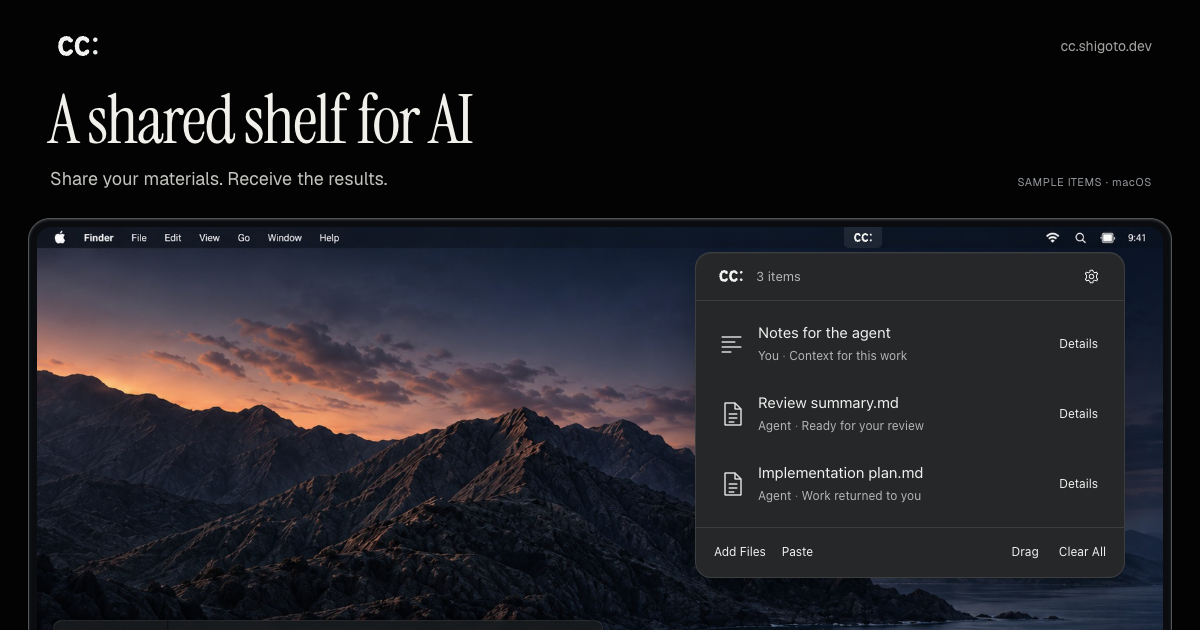
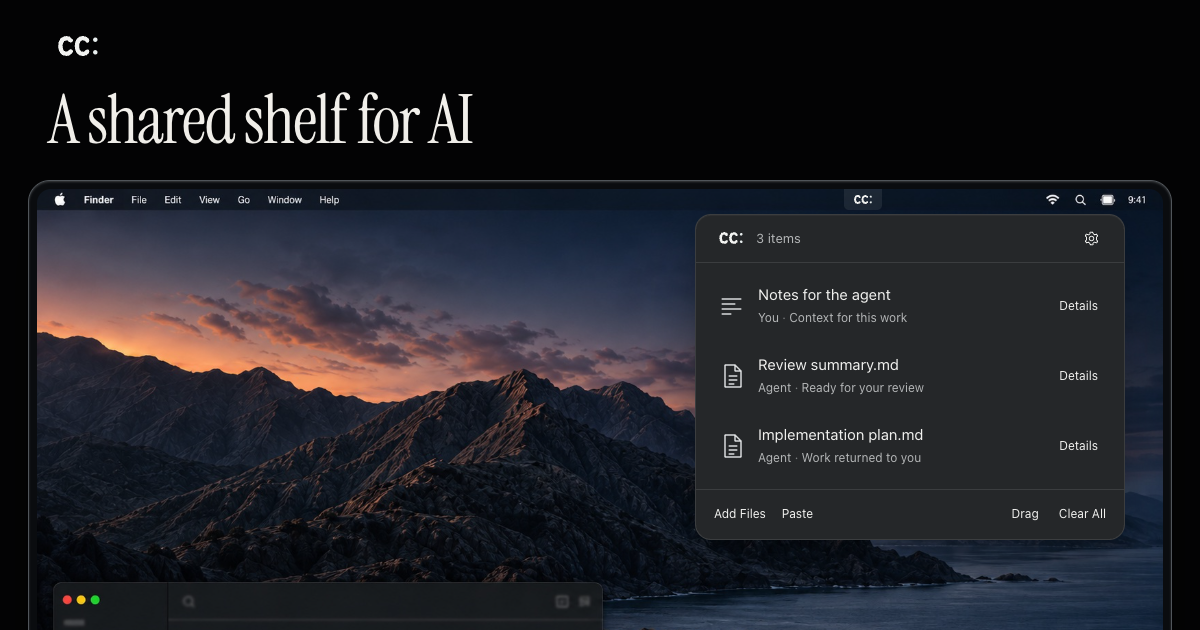
Trim secondary copy from the social preview

diff --git a/site/media/cc-og.html b/site/media/cc-og.html
@@ -14,11 +14,8 @@
   .og-artwork { position: relative; width: 1200px; height: 630px; overflow: hidden; }
   .og-brand { position: absolute; top: 24px; left: 46px; height: 44px; font: 400 42px/1 OGSerif, serif; }
   .og-brand img { width: 64px; height: 44px; object-fit: contain; }
-  .og-domain { position: absolute; top: 37px; right: 48px; margin: 0; color: #a3a29e; font-size: 14px; }
   .og-artwork h1 { position: absolute; top: 84px; left: 48px; margin: 0; font: 400 68px/1.08 OGSerif, serif; letter-spacing: -.025em; }
-  .og-description { position: absolute; top: 165px; left: 50px; margin: 0; font: 400 18px/1.6 OGSans, sans-serif; color: #c7c6c0; }
-  .og-sample { position: absolute; top: 174px; right: 48px; margin: 0; color: #969a9e; font: 400 11px/1.5 OGSans, sans-serif; letter-spacing: .06em; }
-  .og-product { position: absolute; top: 218px; left: 28px; right: 28px; margin: 0; }
+  .og-product { position: absolute; top: 180px; left: 28px; right: 28px; margin: 0; }
 
   .og-product .desktopShelf { width: 430px; right: 38px; }
   .og-product .shelfHeader { height: 48px; }
@@ -29,10 +26,7 @@
 </head>
 <body><main class="og-artwork">
   <div class="og-brand"><img src="../public/cc/cc-mark.svg" alt="cc:"></div>
-  <p class="og-domain">cc.shigoto.dev</p>
   <h1>A shared shelf for AI</h1>
-  <p class="og-description">Share your materials. Receive the results.</p>
-  <p class="og-sample">SAMPLE ITEMS · macOS</p>
   <figure class="og-product"><div class="preview" data-preview-variant="interactive" lang="en"><div class="stage macDesktop" data-desktop-mode="menuBar"><div class="desktopScreen"><img class="desktopBackdrop" src="../public/cc/mac-desktop-scene.jpg" width="1643" height="957" alt="" fetchpriority="high"><span class="desktopMenuMark" aria-hidden="true"><img src="../public/cc/cc-mark.svg" alt="" width="25" height="20" loading="lazy" decoding="async" srcset="../public/cc/cc-mark.svg 25w" data-nimg="1"></span><div class="desktopShelf"><div class="shelf" data-shelf-mode="menuBar" data-shelf-state="items" lang="en"><div class="shelfHeader"><img src="../public/cc/cc-mark.svg" alt="cc:" width="30" height="26" loading="lazy" decoding="async" srcset="../public/cc/cc-mark.svg 30w" class="mark" data-nimg="1"><span class="itemCount" aria-live="polite">3 items</span><span class="windowControl windowSettings" aria-hidden="true"><svg viewBox="0 0 24 24" fill="none"><path d="M10 2h4l1 3 2 1 3-1 2 3-2 2v4l2 2-2 3-3-1-2 1-1 3h-4l-1-3-2-1-3 1-2-3 2-2v-4L2 8l2-3 3 1 2-1 1-3Z"></path><circle cx="12" cy="12" r="3.5"></circle></svg></span></div><ul class="itemList" role="list"><li class="itemRow"><svg class="itemIcon" viewBox="0 0 28 28" fill="none" aria-hidden="true"><path d="M4 7h19M4 12h13M4 17h19M4 22h9"></path></svg><div class="itemCopy"><p class="itemTitle">Notes for the agent</p><p class="itemDetail"><span>You</span><span class="detailSeparator"> · </span>Context for this work</p></div><span class="itemMenu" aria-hidden="true">Details</span></li><li class="itemRow"><svg class="itemIcon" viewBox="0 0 28 28" fill="none" aria-hidden="true"><path d="M7 3h10l6 6v16H7V3Z"></path><path d="M17 3v6h6M11 14h8M11 18h8M11 22h5"></path></svg><div class="itemCopy"><p class="itemTitle">Review summary.md</p><p class="itemDetail"><span>Agent</span><span class="detailSeparator"> · </span>Ready for your review</p></div><span class="itemMenu" aria-hidden="true">Details</span></li><li class="itemRow"><svg class="itemIcon" viewBox="0 0 28 28" fill="none" aria-hidden="true"><path d="M7 3h10l6 6v16H7V3Z"></path><path d="M17 3v6h6M11 14h8M11 18h8M11 22h5"></path></svg><div class="itemCopy"><p class="itemTitle">Implementation plan.md</p><p class="itemDetail"><span>Agent</span><span class="detailSeparator"> · </span>Work returned to you</p></div><span class="itemMenu" aria-hidden="true">Details</span></li></ul><div class="shelfFooter"><span class="footerPrimary"><span>Add Files</span><span>Paste</span></span><span class="footerActions"><span class="dragLabel">Drag</span><span class="clearAllLabel">Clear All</span></span></div></div></div></div></div></div></figure>
 </main></body>
 </html>
